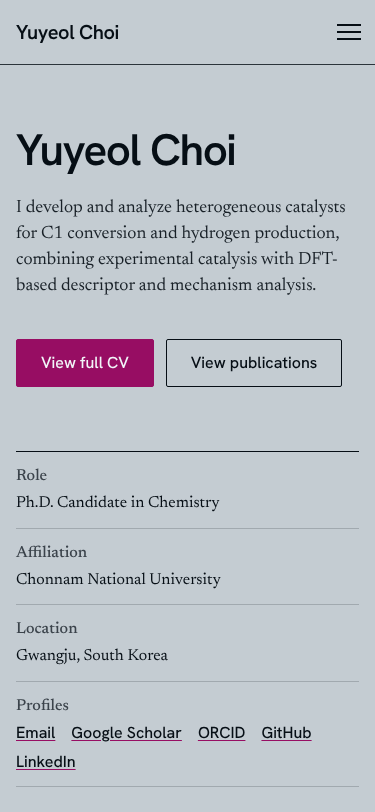
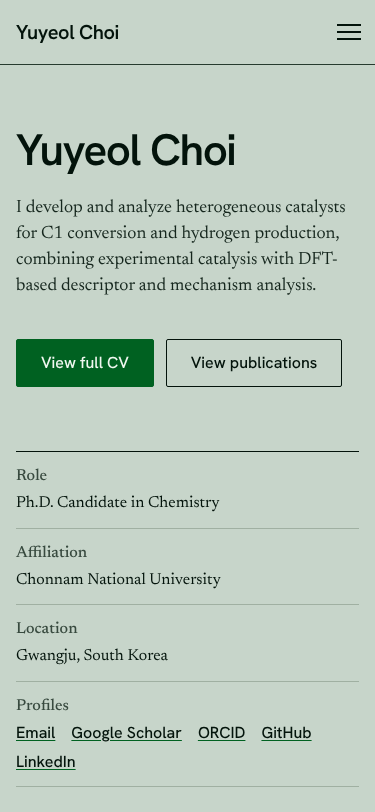
style: move the palette to a green colourway
Moss paper, forest-green ink and a deep green signal replace the slate
and magenta; only the colour tokens and the theme-color meta changed.
Preview screenshots refreshed.

Claude-Session: https://claude.ai/code/session_019HsdbSQHQ2cXGj9oaP4WL5

Changed region(s): [[0.0293, 0.4002, 0.4107, 0.4926]]

diff --git a/assets/css/style.css b/assets/css/style.css
@@ -7,16 +7,17 @@
 /* Hallmark · reworded "Chonnam National University - Gwangju, South Korea" to two rows of the facts list · 63 names the hyphen-joined meta string */
 /* Hallmark · moved "Full CV includes publications, research experience, funding, education, teaching, and technical skills." from the hero to the closing band · 58 names the hero's third text block */
 /* Hallmark · kept: three summary-card headings ("Doctoral Student Research Fellowship", "Visiting Graduate Student", "International Research Collaborator") became rows of the record table on the home page; every link, id, field, handler and script kept */
+/* Hallmark · colourway: green, by request · the slate moved to a moss paper at hue 150, the ink to a forest green, the magenta signal to a deep green at hue 152; the greys stay tinted toward the anchor */
 /* Hallmark · built: the project · redesign: full */
 
 :root {
-  --color-paper: oklch(84% 0.012 245); --color-paper-2: oklch(81% 0.012 245); --color-paper-3: oklch(77% 0.012 245);
-  --color-ink: oklch(16% 0.020 245); --color-ink-2: oklch(24% 0.018 245); --color-muted: oklch(38% 0.016 245);
-  --color-rule: oklch(73% 0.013 240); --color-rule-2: oklch(32% 0.018 240);
-  --color-accent: oklch(45% 0.180 350); --color-accent-2: oklch(37% 0.160 350); --color-accent-ink: oklch(97% 0.006 245); --color-focus: oklch(46% 0.190 350);
-  --color-sheet: oklch(93.5% 0.008 245);
-  --color-sheet-2: oklch(90% 0.009 245);
-  --color-ink-rule: oklch(34% 0.020 245);
+  --color-paper: oklch(86% 0.022 150); --color-paper-2: oklch(83% 0.024 150); --color-paper-3: oklch(79% 0.026 150);
+  --color-ink: oklch(17% 0.030 160); --color-ink-2: oklch(25% 0.028 160); --color-muted: oklch(39% 0.030 158);
+  --color-rule: oklch(74% 0.026 150); --color-rule-2: oklch(33% 0.032 158);
+  --color-accent: oklch(42% 0.140 152); --color-accent-2: oklch(35% 0.120 152); --color-accent-ink: oklch(97% 0.012 150); --color-focus: oklch(44% 0.160 152);
+  --color-sheet: oklch(94.5% 0.012 150);
+  --color-sheet-2: oklch(91% 0.014 150);
+  --color-ink-rule: oklch(35% 0.032 160);
   --color-notice: oklch(88% 0.040 85); --color-notice-ink: oklch(30% 0.060 70); --color-notice-rule: oklch(58% 0.120 70);
   --font-display: "Hanken Grotesk", ui-sans-serif, system-ui, sans-serif;
   --font-body: "Newsreader", ui-serif, Georgia, serif;

diff --git a/_layouts/default.html b/_layouts/default.html
@@ -4,7 +4,7 @@
     <meta charset="utf-8">
     <meta name="viewport" content="width=device-width, initial-scale=1">
     {% seo %}
-    <meta name="theme-color" content="#c4cbd2">
+    <meta name="theme-color" content="#c7d5ca">
     {% include person-json-ld.html %}
     {% include publication-meta.html %}
     <link rel="preconnect" href="https://fonts.googleapis.com">

diff --git a/README.md b/README.md
@@ -115,6 +115,6 @@ Always pull before editing when switching computers. Commit source files only; d
 
 ## Design system
 
-The look was rebuilt with [Hallmark](https://github.com/nutlope/hallmark) (theme: Almanac). Every colour, font, size and spacing value is a token at the top of `assets/css/style.css`; the first comment lines there are the Hallmark stamp recording the shape, hero posture, waivers and copy changes. Fonts (Hanken Grotesk, Newsreader, IBM Plex Mono) load from Google Fonts in `_layouts/default.html`. Keep new styles on the tokens (`--color-*`, `--space-*`, `--text-*`) rather than literal values, and avoid small tracked-caps labels above headings.
+The look was rebuilt with [Hallmark](https://github.com/nutlope/hallmark) (theme: Almanac, in a green colourway). Every colour, font, size and spacing value is a token at the top of `assets/css/style.css`; the first comment lines there are the Hallmark stamp recording the shape, hero posture, waivers and copy changes. Fonts (Hanken Grotesk, Newsreader, IBM Plex Mono) load from Google Fonts in `_layouts/default.html`. Keep new styles on the tokens (`--color-*`, `--space-*`, `--text-*`) rather than literal values, and avoid small tracked-caps labels above headings.
 
 Before and after screenshots of the redesign are in `docs/design-preview/` (excluded from the built site).
